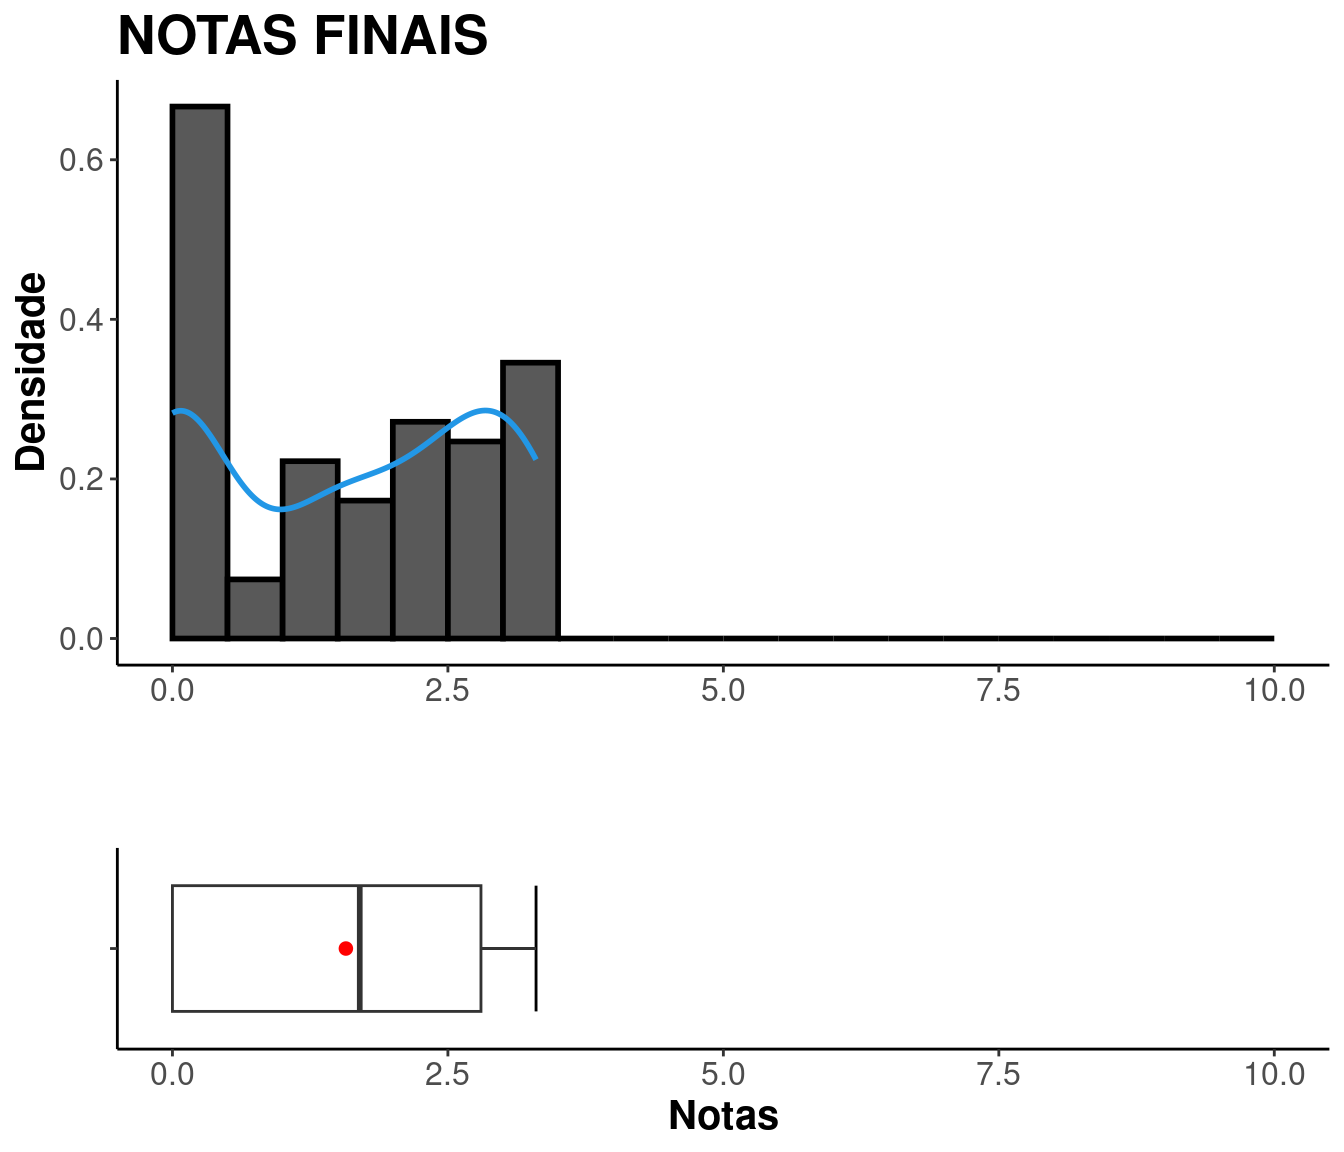
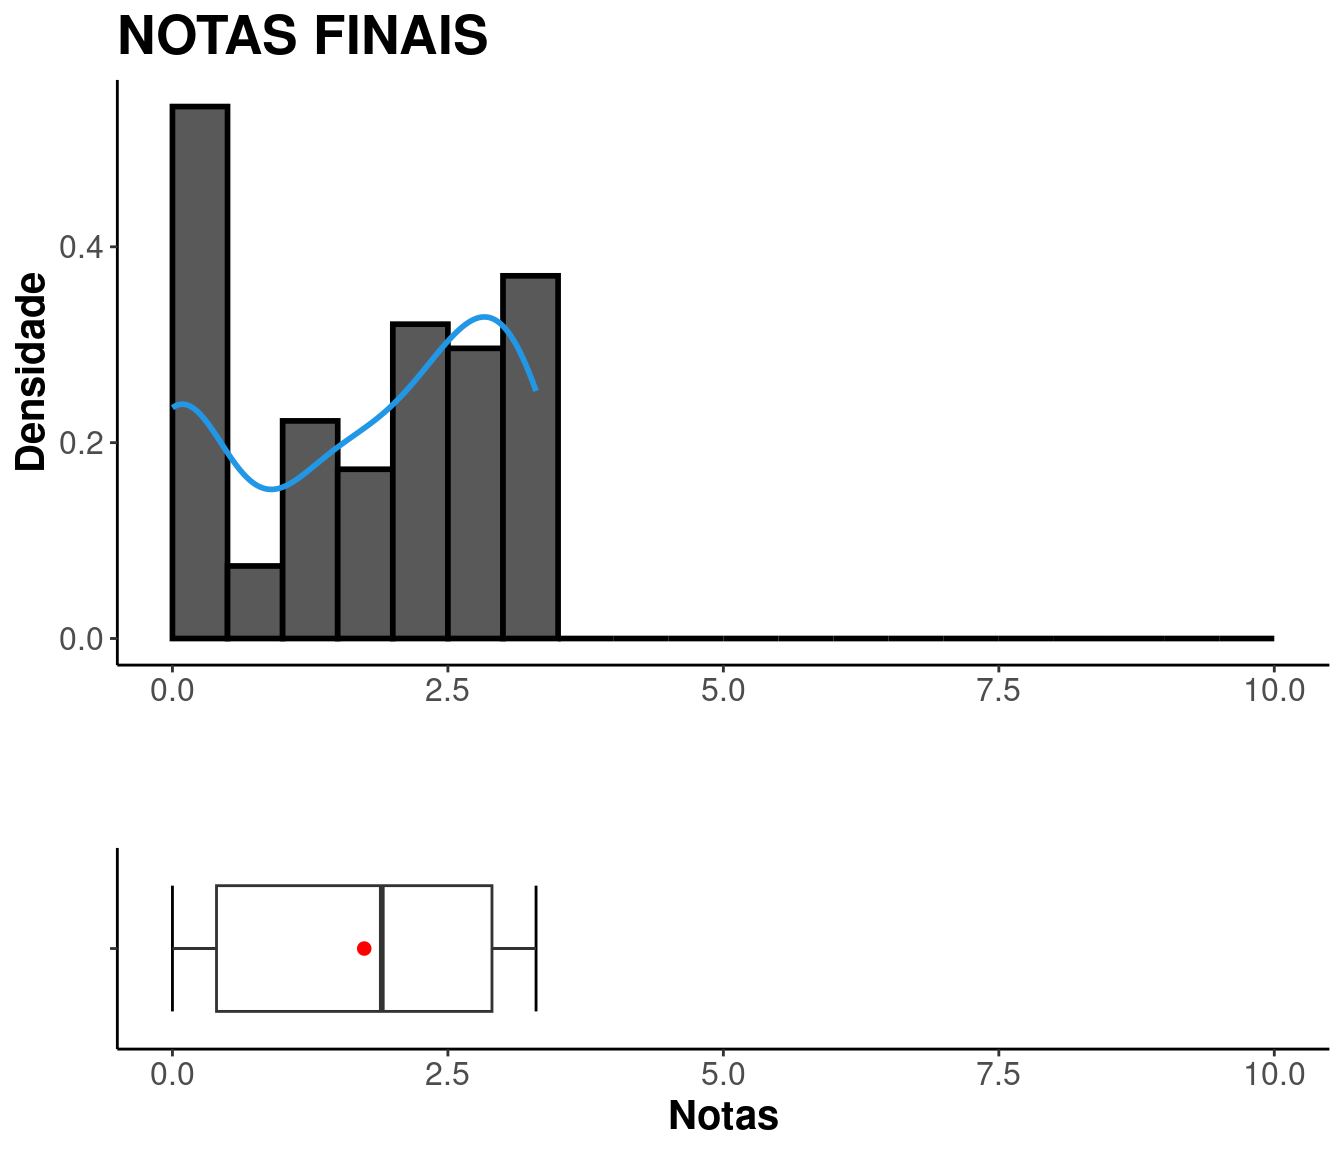
adiciona notas segunda chamada

diff --git a/notas.html b/notas.html
@@ -408,8 +408,8 @@ Cavazani de Freitas</div></h3>
 <p>Busque sua situação digitando seu GRR na caixa “Search”.</p>
 <p><br />
 </p>
-<div class="datatables html-widget html-fill-item-overflow-hidden html-fill-item" id="htmlwidget-169480e5cb255b7c8750" style="width:100%;height:auto;"></div>
-<script type="application/json" data-for="htmlwidget-169480e5cb255b7c8750">{"x":{"filter":"none","vertical":false,"editable":{"target":"cell","disable":{"columns":null},"numeric":[1,2,3,4],"date":[]},"data":[["GRR20233813","GRR20164993","GRR20221536","GRR20235278","GRR20233778","GRR20233798","GRR20233787","GRR20212143","GRR20221546","GRR20190881","GRR20201102","GRR20233791","GRR20221524","GRR20197187","GRR20233821","GRR20233780","GRR20233804","GRR20221522","GRR20233774","GRR20233789","GRR20215549","GRR20191007","GRR20212099","GRR20201136","GRR20234340","GRR20221530","GRR20212121","GRR20214407","GRR20233770","GRR20233795","GRR20212127","GRR20233773","GRR20201103","GRR20233801","GRR20235283","GRR20233808","GRR20233816","GRR20223869","GRR20235279","GRR20223866","GRR20233788","GRR20197323","GRR20206177","GRR20233819","GRR20201148","GRR20233779","GRR20233771","GRR20192788","GRR20212128","GRR20235275","GRR20212115","GRR20234406","GRR20233820","GRR20233806","GRR20190859","GRR20201142","GRR20233767","GRR20221532","GRR20235285","GRR20205330","GRR20212140","GRR20190940","GRR20234339","GRR20233781","GRR20201113","GRR20224437","GRR20221531","GRR20190954","GRR20233775","GRR20221539","GRR20224777","GRR20214406","GRR20212134","GRR20150264","GRR20234341","GRR20234338","GRR20212107","GRR20234337","GRR20221516","GRR20212152","GRR20235576"],[0,28,4,0,0,8,0,12,4,28,4,0,16,8,0,8,4,0,0,4,4,24,0,4,8,0,0,8,0,4,8,0,28,0,0,8,4,8,0,8,4,12,4,4,28,0,4,4,0,4,0,4,4,0,4,8,0,28,0,0,28,4,0,4,4,0,0,0,12,0,8,28,0,4,4,0,0,4,8,28,8],[10,null,null,8.1,8.699999999999999,8.800000000000001,4.2,null,4,null,6.3,7,null,5.1,9.800000000000001,0,0,4.2,9.300000000000001,9.800000000000001,7.3,null,1,3.1,2.2,10,3.7,7.2,9.6,8.199999999999999,null,9.199999999999999,null,8.9,9.699999999999999,8.6,4.1,7.1,9.300000000000001,null,9.4,null,6.5,7.7,null,5.5,9.4,4.2,5,null,4.5,5.8,9.9,7.6,null,null,2.5,null,8.5,1.2,null,5.2,7.2,9.6,0.1,9,8.9,1.4,null,7.3,null,null,0.3,3.5,6.8,7.4,9.4,5.6,4,null,5.5],[10,0,7.44,10,9.35,9.5,9.49,6.21,9.449999999999999,0,7.38,9.699999999999999,0,6.25,10,0,0,7.92,8.84,9.789999999999999,9.25,0,0,9.01,4.66,9.35,9.789999999999999,9.33,10,8.1,6.88,9.92,0,7.83,10,10,8.880000000000001,9.5,10,7.28,10,7,9.130000000000001,9.529999999999999,0,9.75,10,8.5,7.17,8.699999999999999,9.1,7.81,9.57,8.75,7.67,9.07,8,0,9.17,9.31,0,9.289999999999999,9.789999999999999,9.470000000000001,7.31,9.539999999999999,10,4.42,0,9.67,10,0,6.93,9.039999999999999,9.619999999999999,9.73,9.49,9.49,7.75,0,9.699999999999999],[9.33,0,0,9.83,9.18,8.75,6.9,0,7.5,0,4.88,8.75,0,2.95,9.1,0,0,6.13,9.83,10,7.63,0,0,6,1.63,9,9.23,6.89,10,5.18,0,9.58,0,6.52,9.800000000000001,10,5.26,8.949999999999999,9.83,0,9.15,8.48,8.130000000000001,6.54,0,4.22,9.5,5.8,4.13,5.98,6.9,4.79,9.83,9.1,7.25,0,8.050000000000001,0,7.33,5.17,0,6.6,8.77,8.800000000000001,7.03,7.13,10,2.83,0,9.43,7.65,0,3.03,3.39,6.46,6.14,8.75,8.75,7.81,0,8.66]],"container":"<table class=\"cell-border stripe\">\n  <thead>\n    <tr>\n      <th>GRR<\/th>\n      <th>FALTAS<\/th>\n      <th>PROVA 1<\/th>\n      <th>REMOTA 1<\/th>\n      <th>REMOTA 2<\/th>\n    <\/tr>\n  <\/thead>\n<\/table>","options":{"columnDefs":[{"className":"dt-right","targets":[1,2,3,4]}],"order":[],"autoWidth":false,"orderClasses":false}},"evals":[],"jsHooks":[]}</script>
+<div class="datatables html-widget html-fill-item-overflow-hidden html-fill-item" id="htmlwidget-bf8dda36615cdf346664" style="width:100%;height:auto;"></div>
+<script type="application/json" data-for="htmlwidget-bf8dda36615cdf346664">{"x":{"filter":"none","vertical":false,"editable":{"target":"cell","disable":{"columns":null},"numeric":[1,2,3,4],"date":[]},"data":[["GRR20233813","GRR20164993","GRR20221536","GRR20235278","GRR20233778","GRR20233798","GRR20233787","GRR20212143","GRR20221546","GRR20190881","GRR20201102","GRR20233791","GRR20221524","GRR20197187","GRR20233821","GRR20233780","GRR20233804","GRR20221522","GRR20233774","GRR20233789","GRR20215549","GRR20191007","GRR20212099","GRR20201136","GRR20234340","GRR20221530","GRR20212121","GRR20214407","GRR20233770","GRR20233795","GRR20212127","GRR20233773","GRR20201103","GRR20233801","GRR20235283","GRR20233808","GRR20233816","GRR20223869","GRR20235279","GRR20223866","GRR20233788","GRR20197323","GRR20206177","GRR20233819","GRR20201148","GRR20233779","GRR20233771","GRR20192788","GRR20212128","GRR20235275","GRR20212115","GRR20234406","GRR20233820","GRR20233806","GRR20190859","GRR20201142","GRR20233767","GRR20221532","GRR20235285","GRR20205330","GRR20212140","GRR20190940","GRR20234339","GRR20233781","GRR20201113","GRR20224437","GRR20221531","GRR20190954","GRR20233775","GRR20221539","GRR20224777","GRR20214406","GRR20212134","GRR20150264","GRR20234341","GRR20234338","GRR20212107","GRR20234337","GRR20221516","GRR20212152","GRR20235576"],[0,28,4,0,0,8,0,12,4,28,4,0,16,8,0,8,4,0,0,4,4,24,0,4,8,0,0,8,0,4,8,0,28,0,0,8,4,8,0,8,4,12,4,4,28,0,4,4,0,4,0,4,4,0,4,8,0,28,0,0,28,4,0,4,4,0,0,0,12,0,8,28,0,4,4,0,0,4,8,28,8],[10,null,null,8.1,8.699999999999999,8.800000000000001,4.2,null,4,null,6.3,7,7,5.1,9.800000000000001,0,0,4.2,9.300000000000001,9.800000000000001,7.3,null,1,3.1,2.2,10,3.7,7.2,9.6,8.199999999999999,null,9.199999999999999,null,8.9,9.699999999999999,8.6,4.1,7.1,9.300000000000001,6.8,9.4,null,6.5,7.7,null,5.5,9.4,4.2,5,9.1,4.5,5.8,9.9,7.6,8,9.6,2.5,null,8.5,1.2,null,5.2,7.2,9.6,0.1,9,8.9,1.4,null,7.3,null,null,0.3,3.5,6.8,7.4,9.4,5.6,4,null,5.5],[10,0,7.44,10,9.35,9.5,9.49,6.21,9.449999999999999,0,7.38,9.699999999999999,7,6.25,10,0,0,7.92,8.84,9.789999999999999,9.25,0,0,9.01,4.66,9.35,9.789999999999999,9.33,10,8.1,6.88,9.92,0,7.83,10,10,8.880000000000001,9.5,10,7.28,10,7,9.130000000000001,9.529999999999999,0,9.75,10,8.5,7.17,8.699999999999999,9.1,7.81,9.57,8.75,7.67,9.07,8,0,9.17,9.31,0,9.289999999999999,9.789999999999999,9.470000000000001,7.31,9.539999999999999,10,4.42,0,9.67,10,0,6.93,9.039999999999999,9.619999999999999,9.73,9.49,9.49,7.75,0,9.699999999999999],[9.33,0,0,9.83,9.18,8.75,6.9,0,7.5,0,4.88,8.75,7,2.95,9.1,0,0,6.13,9.83,10,7.63,0,0,6,1.63,9,9.23,6.89,10,5.18,0,9.58,0,6.52,9.800000000000001,10,5.26,8.949999999999999,9.83,0,9.15,8.48,8.130000000000001,6.54,0,4.22,9.5,5.8,4.13,5.98,6.9,4.79,9.83,9.1,7.25,0,8.050000000000001,0,7.33,5.17,0,6.6,8.77,8.800000000000001,7.03,7.13,10,2.83,0,9.43,7.65,0,3.03,3.39,6.46,6.14,8.75,8.75,7.81,0,8.66]],"container":"<table class=\"cell-border stripe\">\n  <thead>\n    <tr>\n      <th>GRR<\/th>\n      <th>FALTAS<\/th>\n      <th>PROVA 1<\/th>\n      <th>REMOTA 1<\/th>\n      <th>REMOTA 2<\/th>\n    <\/tr>\n  <\/thead>\n<\/table>","options":{"columnDefs":[{"className":"dt-right","targets":[1,2,3,4]}],"order":[],"autoWidth":false,"orderClasses":false}},"evals":[],"jsHooks":[]}</script>
 <hr />
 </div>
 <div id="presenças" class="section level1">
@@ -480,14 +480,14 @@ class="section level1 tabset tabset-fade tabset-pills">
 <div id="prova-1" class="section level2">
 <h2>PROVA 1</h2>
 <center>
-<table style="width:74%;">
+<table style="width:76%;">
 <colgroup>
 <col width="6%" />
 <col width="12%" />
 <col width="8%" />
 <col width="11%" />
 <col width="13%" />
-<col width="8%" />
+<col width="11%" />
 <col width="12%" />
 </colgroup>
 <thead>
@@ -503,12 +503,12 @@ class="section level1 tabset tabset-fade tabset-pills">
 </thead>
 <tbody>
 <tr class="odd">
-<td align="center">61</td>
+<td align="center">66</td>
 <td align="center">0</td>
 <td align="center">4.2</td>
-<td align="center">6.285</td>
-<td align="center">7.1</td>
-<td align="center">8.9</td>
+<td align="center">6.423</td>
+<td align="center">7.15</td>
+<td align="center">8.975</td>
 <td align="center">10</td>
 </tr>
 </tbody>
@@ -529,8 +529,8 @@ class="section level1 tabset tabset-fade tabset-pills">
 <tbody>
 <tr class="odd">
 <td align="center">10</td>
-<td align="center">8.99</td>
-<td align="center">2.998</td>
+<td align="center">8.627</td>
+<td align="center">2.937</td>
 </tr>
 </tbody>
 </table>
@@ -689,7 +689,7 @@ class="section level1 tabset tabset-fade tabset-pills">
 <td align="center">81</td>
 <td align="center">0</td>
 <td align="center">7</td>
-<td align="center">7.291</td>
+<td align="center">7.377</td>
 <td align="center">9.07</td>
 <td align="center">9.62</td>
 <td align="center">10</td>
@@ -712,8 +712,8 @@ class="section level1 tabset tabset-fade tabset-pills">
 <tbody>
 <tr class="odd">
 <td align="center">10</td>
-<td align="center">12.61</td>
-<td align="center">3.551</td>
+<td align="center">11.94</td>
+<td align="center">3.456</td>
 </tr>
 </tbody>
 </table>
@@ -749,9 +749,9 @@ class="section level1 tabset tabset-fade tabset-pills">
 <tr class="odd">
 <td align="center">81</td>
 <td align="center">0</td>
-<td align="center">2.83</td>
-<td align="center">5.682</td>
-<td align="center">6.89</td>
+<td align="center">2.95</td>
+<td align="center">5.768</td>
+<td align="center">6.9</td>
 <td align="center">8.8</td>
 <td align="center">10</td>
 </tr>
@@ -773,8 +773,8 @@ class="section level1 tabset tabset-fade tabset-pills">
 <tbody>
 <tr class="odd">
 <td align="center">10</td>
-<td align="center">13.52</td>
-<td align="center">3.677</td>
+<td align="center">13.13</td>
+<td align="center">3.623</td>
 </tr>
 </tbody>
 </table>
@@ -907,11 +907,11 @@ class="section level1 tabset tabset-fade tabset-pills">
 <div id="notas-finais" class="section level2">
 <h2>NOTAS FINAIS</h2>
 <center>
-<table style="width:72%;">
+<table style="width:74%;">
 <colgroup>
 <col width="6%" />
 <col width="12%" />
-<col width="6%" />
+<col width="8%" />
 <col width="11%" />
 <col width="13%" />
 <col width="8%" />
@@ -932,10 +932,10 @@ class="section level1 tabset tabset-fade tabset-pills">
 <tr class="odd">
 <td align="center">81</td>
 <td align="center">0</td>
-<td align="center">0</td>
-<td align="center">1.574</td>
-<td align="center">1.7</td>
-<td align="center">2.8</td>
+<td align="center">0.4</td>
+<td align="center">1.741</td>
+<td align="center">1.9</td>
+<td align="center">2.9</td>
 <td align="center">3.3</td>
 </tr>
 </tbody>
@@ -956,8 +956,8 @@ class="section level1 tabset tabset-fade tabset-pills">
 <tbody>
 <tr class="odd">
 <td align="center">3.3</td>
-<td align="center">1.575</td>
-<td align="center">1.255</td>
+<td align="center">1.48</td>
+<td align="center">1.217</td>
 </tr>
 </tbody>
 </table>
